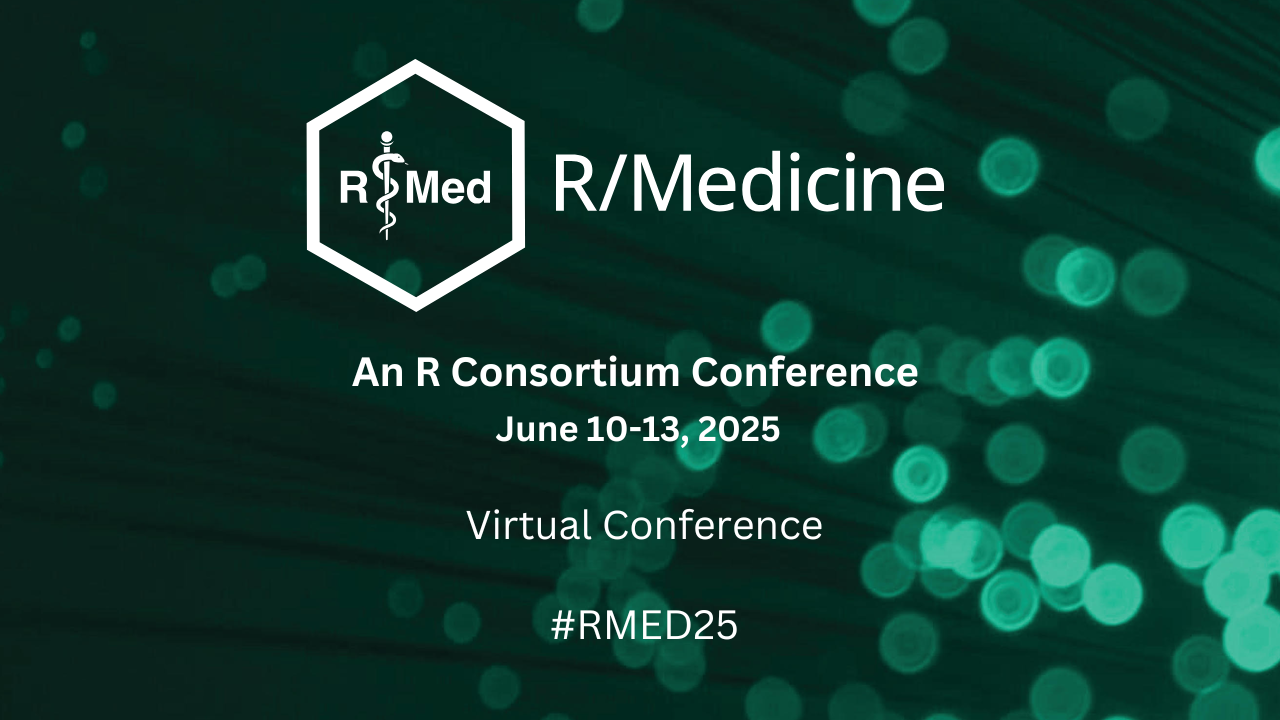
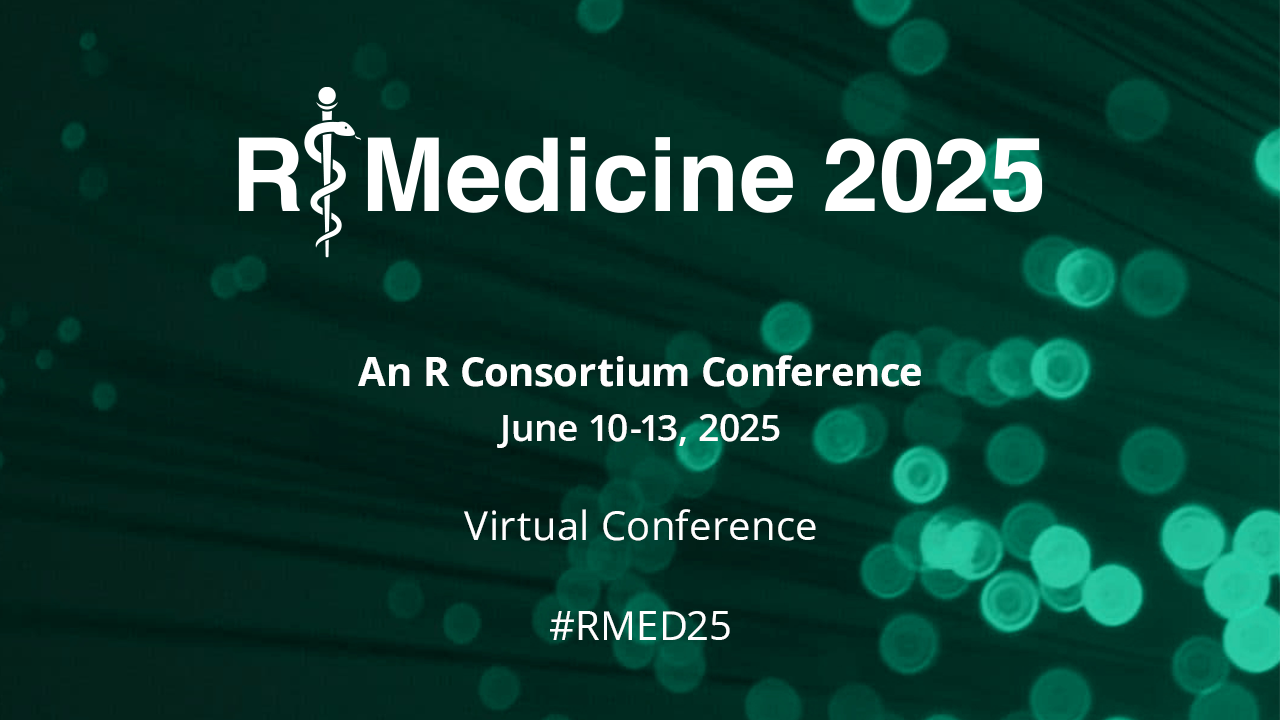
removing Nov webinar, updating main image

diff --git a/docs/index.html b/docs/index.html
@@ -146,12 +146,7 @@ ul.task-list li input[type="checkbox"] {
   <ul>
   <li><a href="#an-r-consortium-virtual-conference" id="toc-an-r-consortium-virtual-conference" class="nav-link active" data-scroll-target="#an-r-consortium-virtual-conference"><strong>AN R CONSORTIUM VIRTUAL CONFERENCE</strong></a></li>
   <li><a href="#why-attend" id="toc-why-attend" class="nav-link" data-scroll-target="#why-attend">WHY ATTEND</a></li>
-  <li><a href="#november-webinar-containerization-and-r-for-reproducibility-and-more" id="toc-november-webinar-containerization-and-r-for-reproducibility-and-more" class="nav-link" data-scroll-target="#november-webinar-containerization-and-r-for-reproducibility-and-more">November Webinar: Containerization and R for Reproducibility and More</a>
-  <ul class="collapse">
-  <li><a href="#abstract" id="toc-abstract" class="nav-link" data-scroll-target="#abstract">Abstract</a></li>
-  <li><a href="#registration" id="toc-registration" class="nav-link" data-scroll-target="#registration">Registration</a></li>
-  <li><a href="#speaker-bio" id="toc-speaker-bio" class="nav-link" data-scroll-target="#speaker-bio">Speaker Bio</a></li>
-  </ul></li>
+  <li><a href="#keynote-addresses" id="toc-keynote-addresses" class="nav-link" data-scroll-target="#keynote-addresses">KEYNOTE ADDRESSES</a></li>
   <li><a href="#brought-to-you-by" id="toc-brought-to-you-by" class="nav-link" data-scroll-target="#brought-to-you-by">BROUGHT TO YOU BY</a></li>
   <li><a href="#mailing-list" id="toc-mailing-list" class="nav-link" data-scroll-target="#mailing-list">MAILING LIST</a></li>
   <li><a href="#help-edit-this-website" id="toc-help-edit-this-website" class="nav-link" data-scroll-target="#help-edit-this-website">HELP EDIT THIS WEBSITE</a></li>
@@ -186,23 +181,19 @@ ul.task-list li input[type="checkbox"] {
 </section>
 <section id="why-attend" class="level2">
 <h2 class="anchored" data-anchor-id="why-attend">WHY ATTEND</h2>
-<p>The R/Medicine conference provides a forum for sharing R based tools and approaches used to analyze and gain insights from health data. Conference workshops provide a way to learn and develop your R skills. Midweek demos allow you to try out new R packages and tools, and our hackathon provides an opportunity to learn how to develop new R tools. The conference talks share new packages, and successes in analyzing health, laboratory, and clinical data with R and Shiny with a vigorous ongoing discussion with speakers (with pre-recorded talks) in the chat.</p>
+<p>The R/Medicine conference provides a forum for sharing R based tools and approaches used to analyze and gain insights from health data. Conference workshops and demos provide a way to learn and develop your R skills, and to try out new R packages and tools. Conference talks share new packages, and successes in analyzing health, laboratory, and clinical data with R and Shiny, and an opportunity to interact with speakers in the chat during their pre-recorded talks.</p>
 </section>
-<section id="november-webinar-containerization-and-r-for-reproducibility-and-more" class="level2">
-<h2 class="anchored" data-anchor-id="november-webinar-containerization-and-r-for-reproducibility-and-more">November Webinar: Containerization and R for Reproducibility and More</h2>
-<p><img src="images/containerization-and-r-webinar-main-image.png" class="img-fluid"></p>
-<section id="abstract" class="level3">
-<h3 class="anchored" data-anchor-id="abstract">Abstract</h3>
-<p>Containerization has become a dominant computing paradigm for computing in the past decade due to its many advantages: isolation and security, scalability and efficiency with lightweight containers sharing an operating kernel and resources, and portability across cloud computing providers. For the researcher, analyst, or R user, containers have applications ranging from reproducible analytical environments to packaging statistical code to use in web applications. I will discuss how biomedical researchers can make use of containerization technology, particularly the tools provided by the Rocker Project, which publishes powerful standardized containers for the R language.</p>
-</section>
-<section id="registration" class="level3">
-<h3 class="anchored" data-anchor-id="registration">Registration</h3>
-<p><a href="https://zoom.us/webinar/register/WN_aWMKlQngTUqgp4G_qkkD_g">https://zoom.us/webinar/register/WN_aWMKlQngTUqgp4G_qkkD_g</a></p>
-</section>
-<section id="speaker-bio" class="level3">
-<h3 class="anchored" data-anchor-id="speaker-bio">Speaker Bio</h3>
-<p>Noam Ross is a computational disease ecologist and Executive Director of rOpenSci, a nonprofit dedicated to promoting open science and validating data science and computational methods. He is a core member of the Rocker Project, which maintains standardized containers for the R computer language. Noam’s work includes spearheading rOpenSci’s work in software peer review, developing a widely emulated system for leveraging the academic peer-review process coupled with state-of-the art automated code analysis to improve code quality in the scientific software in ecosystem, as well as using review as a mechanism for community building and training. His research interests and contributions span a wide range of topics, including disease ecology, zoonotic spillover, mechanistic modeling of disease dynamics, and non-parametric data science methods. His applied work includes creating early outbreak assessment models for the U.S. Defense Threat Reduction Agency, and modeling and forecasting for New York State’s COVID-19 emergency response. Noam holds a Ph.D.&nbsp;in theoretical ecology from the University of California-Davis and a B.Sc. from Brown University.</p>
-</section>
+<section id="keynote-addresses" class="level2">
+<h2 class="anchored" data-anchor-id="keynote-addresses">KEYNOTE ADDRESSES</h2>
+<div class="columns">
+<div class="column" style="width:45%;">
+<p><strong>Coming soon!</strong></p>
+</div><div class="column" style="width:10%;">
+<!-- empty column to create gap -->
+</div><div class="column" style="width:45%;">
+
+</div>
+</div>
 </section>
 <section id="brought-to-you-by" class="level2">
 <h2 class="anchored" data-anchor-id="brought-to-you-by">BROUGHT TO YOU BY</h2>

diff --git a/docs/workshops.html b/docs/workshops.html
@@ -146,7 +146,7 @@ ul.task-list li input[type="checkbox"] {
   <ul>
   <li><a href="#workshops" id="toc-workshops" class="nav-link active" data-scroll-target="#workshops">Workshops</a>
   <ul class="collapse">
-  <li><a href="#tbd" id="toc-tbd" class="nav-link" data-scroll-target="#tbd">TBD</a></li>
+  <li><a href="#coming-soon" id="toc-coming-soon" class="nav-link" data-scroll-target="#coming-soon">Coming soon!</a></li>
   </ul></li>
   </ul>
 </nav>
@@ -159,8 +159,8 @@ ul.task-list li input[type="checkbox"] {
 
 <section id="workshops" class="level2">
 <h2 class="anchored" data-anchor-id="workshops">Workshops</h2>
-<section id="tbd" class="level3">
-<h3 class="anchored" data-anchor-id="tbd">TBD</h3>
+<section id="coming-soon" class="level3">
+<h3 class="anchored" data-anchor-id="coming-soon">Coming soon!</h3>
 
 
 </section>
